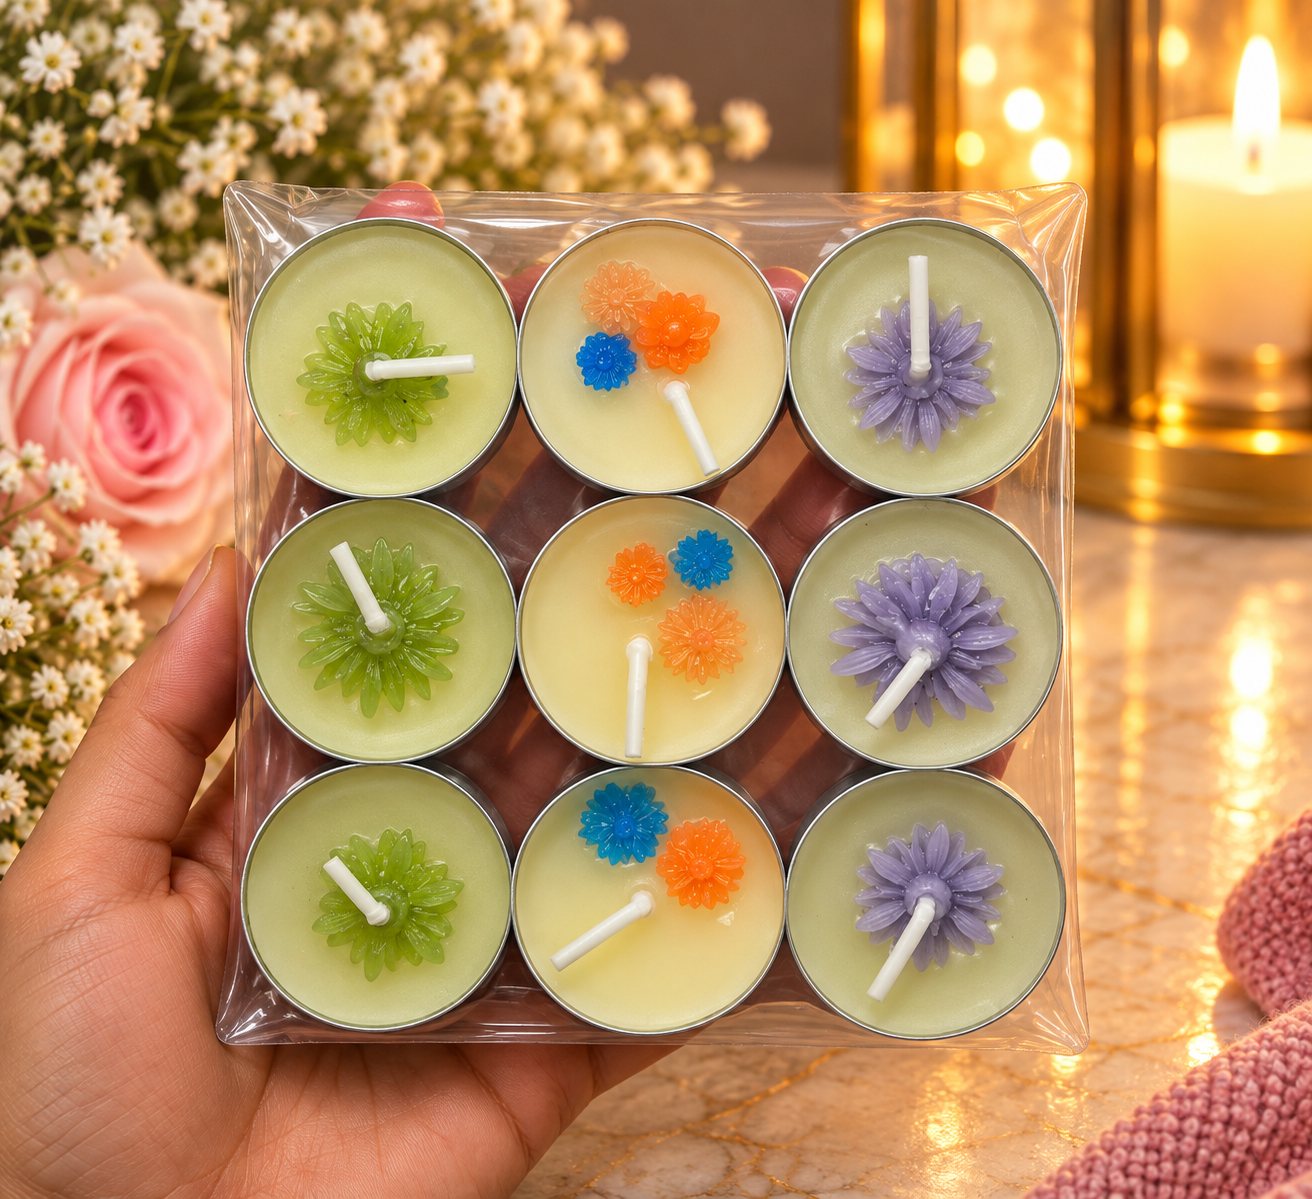
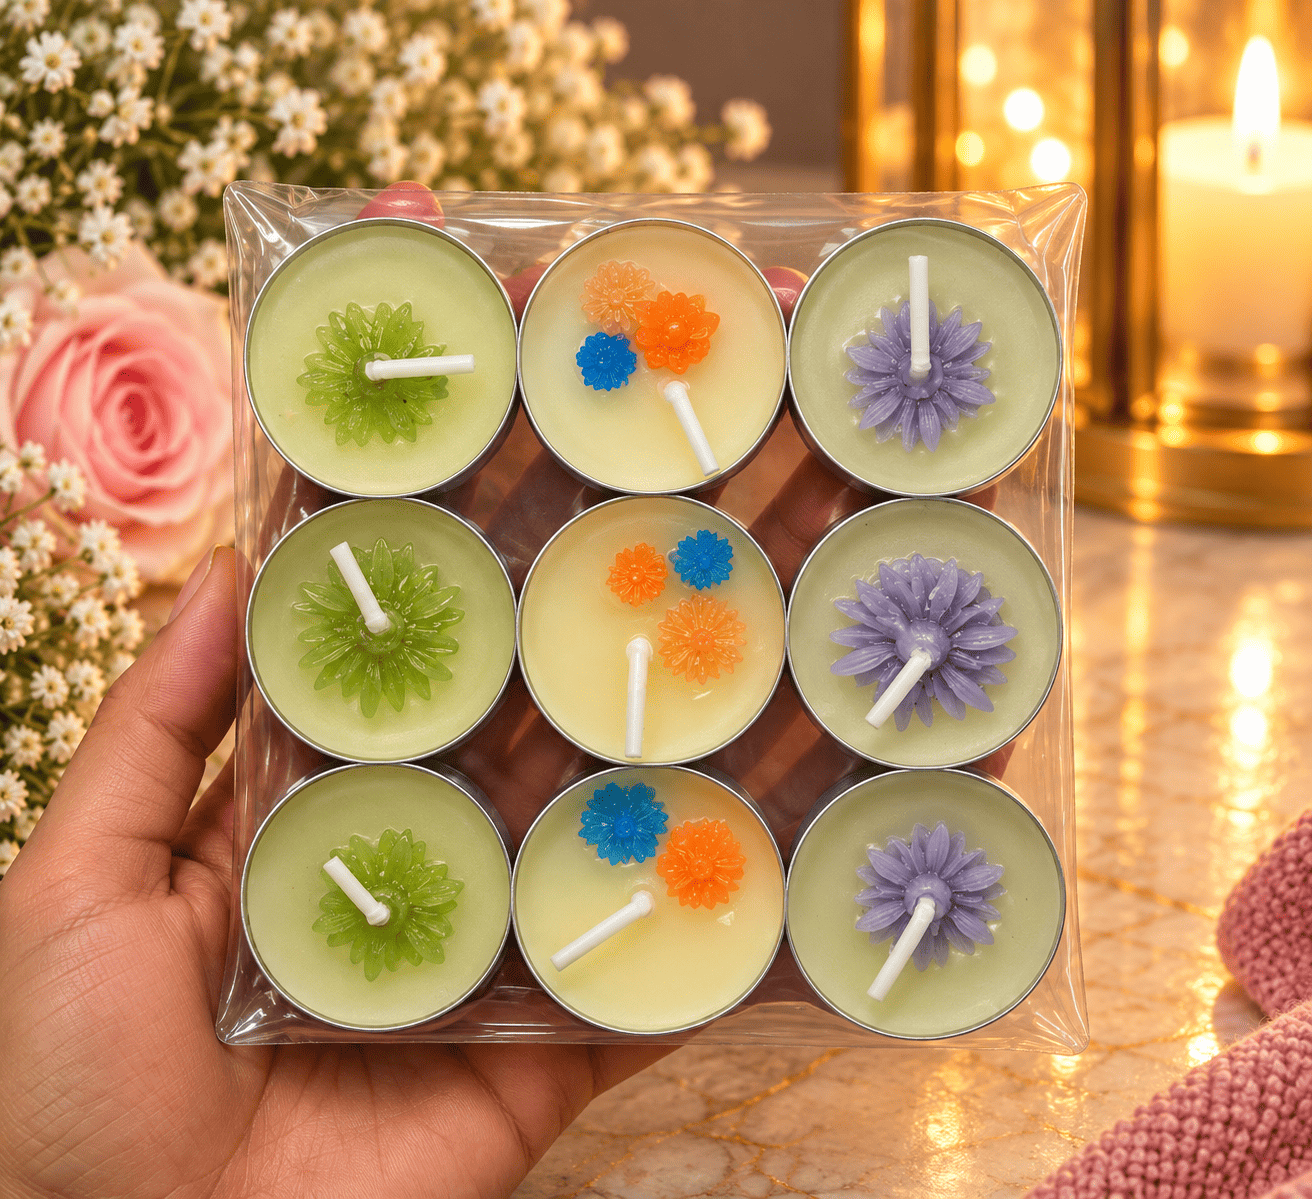
added new products to my page and additional photos for candles

diff --git a/script.js b/script.js
@@ -7,9 +7,9 @@ const CONFIG = {
   phoneDisplay: "+977 9810225214",
 
   // TODO: replace these with your real profile links
-  facebook:  "https://www.facebook.com/share/1CKa8Yg5dT/",
-  tiktok:    "https://www.tiktok.com/@aromayaaa",
-  instagram: "https://www.instagram.com/aromayaaa"
+  facebook:  "https://www.facebook.com/aromaya",
+  tiktok:    "https://www.tiktok.com/@aromaya",
+  instagram: "https://www.instagram.com/aromayaa"
 };
 
 /* =====================================================
@@ -36,7 +36,7 @@ const candles = [
     pricePure: 270,
     description: "An adorable handmade bear candle — cute for gifting, décor and cozy corners.",
     details: ["Handmade in Nepal", "Available in soy-paraffin blend or pure soy wax", "Choose your own colour & scent"],
-    images: ["image-ecom/bear.PNG"]
+    images: ["image-ecom/bear.PNG", "image-ecom/bear1.PNG", "image-ecom/bear2.PNG"]
   },
   {
     id: "peony",
@@ -46,7 +46,7 @@ const candles = [
     pricePure: 215,
     description: "A flower-inspired candle with a delicate shape that works beautifully for gifting and décor.",
     details: ["Handmade in Nepal", "Available in soy-paraffin blend or pure soy wax", "Choose your own colour & scent"],
-    images: ["image-ecom/peony1.PNG", "image-ecom/peony.PNG"]
+    images: ["image-ecom/peony.PNG", "image-ecom/peony1.PNG", "image-ecom/peony2.PNG", "image-ecom/peony3.PNG"]
   },
   {
     id: "rose",
@@ -87,7 +87,7 @@ const candles = [
     noScent: true,
     description: "An elegant spiral taper candle, unscented — beautiful for dinner tables and décor.",
     details: ["Handmade in Nepal", "Available in soy-paraffin blend or pure soy wax", "Choose your own colour", "Unscented"],
-    images: ["image-ecom/spiral-taper.PNG"]
+    images: ["image-ecom/spiral-taper-unscented.jpg"]
   },
   {
     id: "spiral-taper-scented",
@@ -108,7 +108,7 @@ const candles = [
     noScent: true,
     description: "A pack of 9 classic white tealights for everyday use, décor and diyas.",
     details: ["Pack of 9 tealights", "Handmade in Nepal", "Available in soy-paraffin blend or pure soy wax", "Classic white"],
-    images: ["image-ecom/flower-tea3.PNG"]
+    images: ["image-ecom/basic-white-tealight.PNG"]
   },
   {
     id: "tealight-flower-scented",
@@ -118,7 +118,7 @@ const candles = [
     pricePure: 345,
     description: "A pack of 9 flower-shaped tealights with your choice of fragrance.",
     details: ["Pack of 9 tealights", "Handmade in Nepal", "Available in soy-paraffin blend or pure soy wax", "Choose your own colour & scent"],
-    images: ["image-ecom/flower-tea1.PNG"]
+    images: ["image-ecom/flower-tea1.PNG","image-ecom/flower-tea3.PNG"]
   },
   {
     id: "tealight-color-scented",
@@ -128,7 +128,7 @@ const candles = [
     pricePure: 345,
     description: "A pack of 9 colourful tealights with your choice of fragrance.",
     details: ["Pack of 9 tealights", "Handmade in Nepal", "Available in soy-paraffin blend or pure soy wax", "Choose your own colour & scent"],
-    images: ["image-ecom/colorful-tea1.PNG"]
+    images: ["image-ecom/colorful-tea1.PNG", "image-ecom/colorful-tea3.PNG"]
   },
   {
     id: "tealight-flower-plain",
@@ -152,16 +152,16 @@ const candles = [
     details: ["Pack of 9 tealights", "Handmade in Nepal", "Available in soy-paraffin blend or pure soy wax", "Choose your own colour", "Unscented"],
     images: ["image-ecom/colorful-tea2.PNG"]
   },
-  // {
-  //   id: "custom",
-  //   name: "Custom Candle",
-  //   category: "Custom Orders",
-  //   priceBlend: null,
-  //   pricePure: null,
-  //   description: "Looking for a particular shape, colour, scent, quantity or gifting idea? Tell us and we'll make it for you.",
-  //   details: ["Colour options available", "Scent options available", "Bulk / gifting orders", "Contact us for availability"],
-  //   images: []
-  // }
+  {
+    id: "custom",
+    name: "Custom Candle",
+    category: "Custom Orders",
+    priceBlend: null,
+    pricePure: null,
+    description: "Looking for a particular shape, colour, scent, quantity or gifting idea? Tell us and we'll make it for you.",
+    details: ["Colour options available", "Scent options available", "Bulk / gifting orders", "Contact us for availability"],
+    images: []
+  }
 ];
 
 const combos = [
@@ -183,7 +183,7 @@ const combos = [
     pricePure: 360,
     description: "A gift-ready set of 3 handmade candles: Peony, Tulip and Tealight.",
     details: ["Peony candle", "Tulip candle", "Tealight (pack)", "Handmade in Nepal", "Choose your own colour & scent"],
-    images: ["image-ecom/peony-rose-tea1.PNG"]
+    images: ["image-ecom/peony-rose-tulip.PNG"]
   },
   {
     id: "combo-bear-rose-tealight",
@@ -213,7 +213,7 @@ const combos = [
     pricePure: 520,
     description: "A gift-ready set of 3 handmade candles: Bear, Peony and Tulip.",
     details: ["Bear candle", "Peony candle", "Tulip candle", "Handmade in Nepal", "Choose your own colour & scent"],
-    images: ["image-ecom/bear-heart-tea.PNG"]
+    images: ["image-ecom/bear-rose-tea.PNG"]
   },
   {
     id: "combo-bear-rose-peony-heart",
@@ -227,6 +227,11 @@ const combos = [
   }
 ];
 
+/* Raw materials.
+   - Simple item:      price: "Rs. 25 (per pc)"
+   - Item with sizes / types: use variants: [{ label, price }]
+       price can be a number (Rs.) or null (= "Message for price")
+   - note: optional line shown under the price (good for "more sizes available")  */
 const materials = [
   {
     id: "mat-tealight-container",
@@ -236,6 +241,81 @@ const materials = [
     description: "Ready-to-pour tealight container with a wick already fitted — just add your wax.",
     details: ["Wick included", "Sold per piece"],
     images: ["image-ecom/tealight.png"]
+  },
+
+  {
+    id: "mat-sized-item",
+    name: "Self Adhesive Clear Plastic Seal Pouch",
+    category: "Packaging",
+    variants: [
+      { label: "5 × 5 inch", price: 3 },
+      { label: "Your required size", price: null }   // shows "Message for price"
+    ],
+    unit: "per pc",
+    note: "More sizes available — message us on WhatsApp for size & price.",
+    description: "Describe the item here.",
+    details: ["Transparent plastic bag perfect for packaging with adhesive on one side for self seal"],
+    images: ["image-ecom/adhesive-packaging.jpg"]
+  },
+
+  {
+    id: "mat-wax",
+    name: "Candle Wax",
+    category: "Wax",
+    variants: [
+      { label: "Pure soy wax", price: 800 },
+      { label: "Soy-paraffin blend", price: 500 },
+      { label: "Paraffin wax", price: 450 }
+    ],
+    unit: "per kg",   // TODO: change if your wax price is not per kg
+    description: "Wax for making your own candles. Choose from pure soy, soy-paraffin blend or paraffin.",
+    details: ["Pure soy wax — Rs. 800", "Soy-paraffin blend — Rs. 500", "Paraffin wax — Rs. 450"],
+    images: ["image-ecom/pure-soy-wax-mold.jpeg", "image-ecom/soy-paraffin-blend-wax.jpeg","image-ecom/paraffin-wax.jpg"]
+  },
+  {
+    id: "mat-diyo",
+    name: "Designer Diyo",
+    category: "Diyo",
+    price: "Rs. 25 (per pc)",
+    description: "Not your basic clay diyo — these have very fine detailing and carved-style designs. Beautiful for Tihar, Diwali, gifting and décor, or as a candle container.",
+    details: ["Fine detailed, carved-style design", "Perfect for Tihar / Diwali", "Sold per piece"],
+    images: ["image-ecom/diyo1.jpeg", "image-ecom/diyo2.jpeg", "image-ecom/diyo3.jpeg"]
+  },
+  {
+    id: "mat-scale-compact",
+    name: "Electronic Compact Scale",
+    category: "Weighing Scales",
+    price: "Rs. 600 (per pc)",
+    description: "Compact and portable electronic scale with a tare (zero) function.",
+    details: [
+      "Max capacity: 10 kg (10000 g / 1 g accuracy)",
+      "Size (L × W × H): 225 × 155 × 43 mm",
+      "Weight: 440 / 580 g",
+      "In the box: 1 × 10 kg electronic compact scale, 2 × AA batteries"
+    ],
+    images: ["image-ecom/electronic-compact-scale.jpg"]
+  },
+  {
+    id: "mat-scale-kitchen",
+    name: "Electronic Kitchen Scale",
+    category: "Weighing Scales",
+    price: "Rs. 500 (per pc)",
+    description: "Compact and portable electronic kitchen scale with a tare (zero) function.",
+    details: [
+      "Max capacity: 10 kg (10000 g / 1 g accuracy)",
+      "Size (L × W × H): 24 × 16.5 × 3.5 cm",
+      "In the box: 1 × 10 kg electronic digital kitchen food portable weighing scale, 2 × AA batteries"
+    ],
+    images: ["image-ecom/electronic-kitchen-scale.webp"]
+  },
+  {
+    id: "mat-thermometer",
+    name: "Thermometer",
+    category: "Thermometer",
+    price: "Rs. 650",
+    description: "Can be used for candle making as well as cooking.",
+    details: ["comes with battery, can measure extremely high temperatures"],
+    images: ["image-ecom/thermometer.webp"]
   }
 ];
 
@@ -271,7 +351,11 @@ const photoMarkup = p => {
 };
 
 function cardPrice(p, type) {
-  if (type === "material") return p.price;
+  if (type === "material") {
+    if (!p.variants) return p.price;
+    const nums = p.variants.map(v => v.price).filter(v => v != null);
+    return nums.length ? (p.variants.length > 1 ? "From " : "") + rs(Math.min(...nums)) + (p.unit ? ` (${p.unit})` : "") : "Message for price";
+  }
   if (p.priceBlend == null) return "Message for price";
   return `From ${rs(p.priceBlend)}`;
 }
@@ -335,7 +419,13 @@ function updateOrder() {
   let msg;
 
   if (currentType === "material") {
-    msg = `Hi Aromaya! I'd like to order: ${p.name} (${p.price}).`;
+    if (p.variants) {
+      const v = p.variants[Number(document.querySelector('input[name="variant"]:checked')?.value || 0)];
+      price = v.price == null ? "Message for price" : rs(v.price) + (p.unit ? ` (${p.unit})` : "");
+      msg = `Hi Aromaya! I'd like to order: ${p.name} — ${v.label} (${price}).`;
+    } else {
+      msg = `Hi Aromaya! I'd like to order: ${p.name} (${p.price}).`;
+    }
   } else {
     const wax = selectedWax();
     const waxName = wax === "pure" ? "Pure soy wax" : "Soy-paraffin blend";
@@ -361,6 +451,30 @@ function openProduct(id) {
   document.getElementById("modalName").textContent = p.name;
   document.getElementById("modalDescription").textContent = p.description;
   document.getElementById("modalDetails").innerHTML = p.details.map(x => `<div class="detail-item">${x}</div>`).join("");
+
+  // extra UI for raw materials with sizes / types
+  document.getElementById("variantBox")?.remove();
+  document.getElementById("modalNote")?.remove();
+  if (p.note) {
+    const n = document.createElement("p");
+    n.id = "modalNote";
+    n.textContent = p.note;
+    n.style.cssText = "background:var(--peach);border-left:4px solid var(--terracotta);padding:10px 14px;border-radius:8px;font-size:14px;font-weight:600;color:var(--brown);margin:0 0 16px";
+    document.getElementById("modalDescription").after(n);
+  }
+  if (p.variants) {
+    const box = document.createElement("fieldset");
+    box.id = "variantBox";
+    box.className = "wax-choice";
+    box.style.margin = "0 0 8px";
+    box.innerHTML = `<legend>${p.variants.length > 1 ? "Choose an option" : "Option"}</legend>` + p.variants.map((v, i) => `
+      <label class="wax-card">
+        <input type="radio" name="variant" value="${i}" ${i === 0 ? "checked" : ""}>
+        <span class="wax-body"><strong>${v.label}</strong><em>${v.price == null ? "Message for price" : rs(v.price)}</em></span>
+      </label>`).join("");
+    box.addEventListener("change", updateOrder);
+    document.getElementById("modalDetails").before(box);
+  }
 
   // options only for candles & combos
   const showOptions = currentType !== "material";
